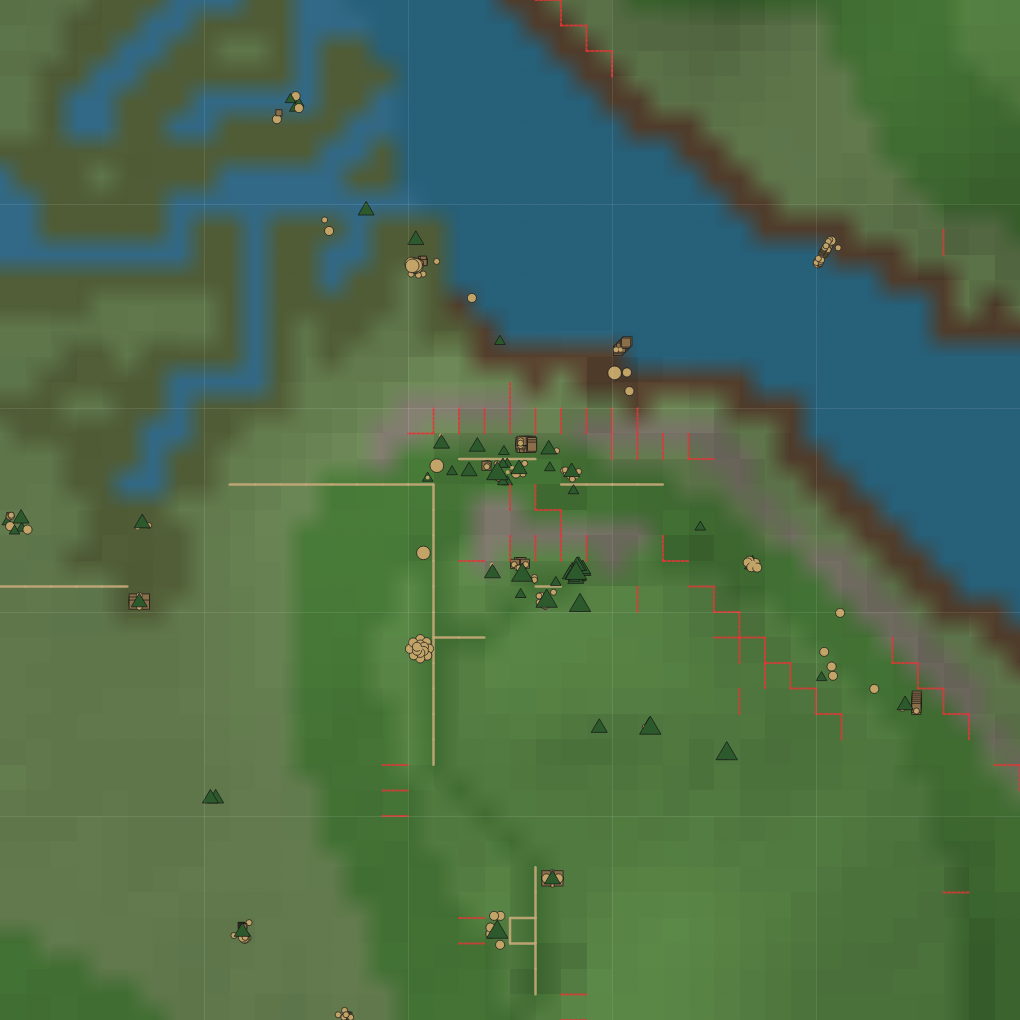
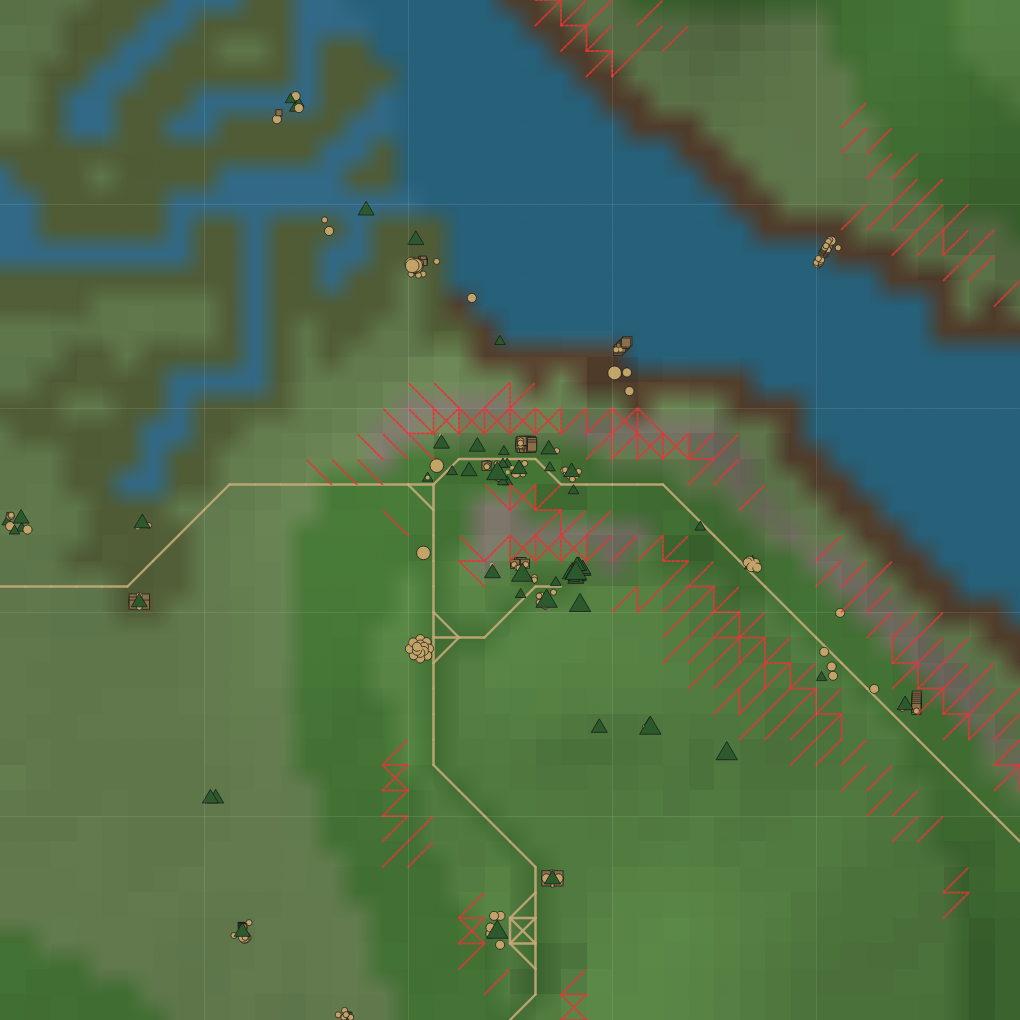
render-preview: walk diagonals for roads and cliffs, harden category dispatch
The road and cliff segment loops only emitted edges to E and N neighbors,
silently dropping any feature whose vertex pattern ran along a diagonal.
A road of road=1 vertices forming a clean (0,0)→(1,1)→(2,2) line had zero
cardinally-adjacent pairs and rendered as nothing — the LLM critic then
saw an empty corridor where retail had a country lane. Same shape for
escarpments and river-cut ridgelines on the cliff overlay.

Both loops now walk four directions (E, N, NE, NW) so every undirected
edge between adjacent vertices is emitted exactly once. Tradeoff: at
L-corners where three road=1 vertices form a triangle, the hypotenuse
also renders, slightly thickening the bend. Strictly better than dropping
diagonals; precise rendering would need triangle-fill where all three
corners are flagged, which is a bigger change.

DrawGlyph dispatch is now case-insensitive via string.Equals(...,
OrdinalIgnoreCase), mirroring the comparer CategoryFill already uses. A
non-canonical-cased category from the ontology was the silent dropout
that masked past building misclassifications: the fill picked up the
right color but the glyph fell through to the unknown-X.

Refreshed docs/images/render_preview/holtburg_r2.png with the new
renderer (1020×1020, 25 LBs, 390 objects, 238 cliffs vs. the prior
build's lower count).

diff --git a/WorldBuilder.Terminal/RenderPreviewRenderer.cs b/WorldBuilder.Terminal/RenderPreviewRenderer.cs
@@ -238,30 +238,31 @@ internal static class RenderPreviewRenderer {
             StrokeCap = SKStrokeCap.Round,
         };
 
+        // Emit each undirected edge exactly once by walking from every vertex
+        // to its E, N, NE, and NW neighbors only. Cardinal-only emission (the
+        // prior version) silently dropped any road whose road=1 vertices ran
+        // along a diagonal — the LLM critic then saw an empty corridor where a
+        // road should have been. Slight cost: at L-corners with three road=1
+        // vertices the hypotenuse also renders, thickening the bend; this is
+        // acceptable schematic noise in exchange for not dropping signal.
+        // Direction offsets: (du, dv).
+        ReadOnlySpan<(int du, int dv)> roadDirs =
+            stackalloc (int, int)[] { (1, 0), (0, 1), (1, 1), (-1, 1) };
+
         for (int vv = 0; vv < VH; vv++) {
             for (int vu = 0; vu < VW; vu++) {
                 int idx = vu + vv * VW;
                 if (!hasData[idx] || roads[idx] == 0) continue;
 
-                // Right neighbor.
-                if (vu + 1 < VW) {
-                    int rIdx = idx + 1;
-                    if (hasData[rIdx] && roads[rIdx] != 0) {
-                        canvas.DrawLine(
-                            VertexToPixel(vu,     vv,     VW, VH, W, H),
-                            VertexToPixel(vu + 1, vv,     VW, VH, W, H),
-                            roadPaint);
-                    }
-                }
-                // Up neighbor (in world; this is screen-down due to Y-flip).
-                if (vv + 1 < VH) {
-                    int uIdx = idx + VW;
-                    if (hasData[uIdx] && roads[uIdx] != 0) {
-                        canvas.DrawLine(
-                            VertexToPixel(vu,     vv,     VW, VH, W, H),
-                            VertexToPixel(vu,     vv + 1, VW, VH, W, H),
-                            roadPaint);
-                    }
+                foreach (var (du, dv) in roadDirs) {
+                    int nu = vu + du, nv = vv + dv;
+                    if (nu < 0 || nu >= VW || nv < 0 || nv >= VH) continue;
+                    int nIdx = nu + nv * VW;
+                    if (!hasData[nIdx] || roads[nIdx] == 0) continue;
+                    canvas.DrawLine(
+                        VertexToPixel(vu, vv, VW, VH, W, H),
+                        VertexToPixel(nu, nv, VW, VH, W, H),
+                        roadPaint);
                 }
             }
         }
@@ -343,25 +344,28 @@ internal static class RenderPreviewRenderer {
                     Math.Max(2f, input.LbPx / 120f) }, 0f),
             };
 
+            // Same 4-direction emission as roads (E, N, NE, NW) so cliff
+            // edges that run diagonally — escarpments, river-cut ridgelines,
+            // tower-building footprints — aren't dropped. The L-corner
+            // hypotenuse artifact applies here too but matters less for
+            // cliffs since the dashed style already reads as schematic.
+            ReadOnlySpan<(int du, int dv)> cliffDirs =
+                stackalloc (int, int)[] { (1, 0), (0, 1), (1, 1), (-1, 1) };
+
             int cliffCount = 0;
             for (int vv = 0; vv < VH; vv++) {
                 for (int vu = 0; vu < VW; vu++) {
                     int idx = vu + vv * VW;
                     if (!hasData[idx]) continue;
-                    if (vu + 1 < VW && hasData[idx + 1]) {
-                        if (Math.Abs(heights[idx + 1] - heights[idx]) > input.CliffThreshold) {
+                    foreach (var (du, dv) in cliffDirs) {
+                        int nu = vu + du, nv = vv + dv;
+                        if (nu < 0 || nu >= VW || nv < 0 || nv >= VH) continue;
+                        int nIdx = nu + nv * VW;
+                        if (!hasData[nIdx]) continue;
+                        if (Math.Abs(heights[nIdx] - heights[idx]) > input.CliffThreshold) {
                             canvas.DrawLine(
-                                VertexToPixel(vu,     vv, VW, VH, W, H),
-                                VertexToPixel(vu + 1, vv, VW, VH, W, H),
-                                cliffPaint);
-                            cliffCount++;
-                        }
-                    }
-                    if (vv + 1 < VH && hasData[idx + VW]) {
-                        if (Math.Abs(heights[idx + VW] - heights[idx]) > input.CliffThreshold) {
-                            canvas.DrawLine(
-                                VertexToPixel(vu, vv,     VW, VH, W, H),
-                                VertexToPixel(vu, vv + 1, VW, VH, W, H),
+                                VertexToPixel(vu, vv, VW, VH, W, H),
+                                VertexToPixel(nu, nv, VW, VH, W, H),
                                 cliffPaint);
                             cliffCount++;
                         }
@@ -403,55 +407,59 @@ internal static class RenderPreviewRenderer {
 
     private static void DrawGlyph(SKCanvas canvas, float cx, float cy, float size,
                                   string category, SKPaint fill, SKPaint outline) {
-        switch (category) {
-            case "Structure":
-                canvas.DrawRect(cx - size, cy - size, size * 2, size * 2, fill);
-                canvas.DrawRect(cx - size, cy - size, size * 2, size * 2, outline);
-                break;
-            case "Furniture":
-            case "Furniture_Storage":
-            case "Furniture_Light": {
-                float s = size * 0.85f;
-                canvas.DrawRect(cx - s, cy - s, s * 2, s * 2, fill);
-                if (s >= 3f) canvas.DrawRect(cx - s, cy - s, s * 2, s * 2, outline);
-                break;
-            }
-            case "Scenery": {
-                using var path = new SKPath();
-                path.MoveTo(cx, cy - size);
-                path.LineTo(cx - size, cy + size * 0.7f);
-                path.LineTo(cx + size, cy + size * 0.7f);
-                path.Close();
-                canvas.DrawPath(path, fill);
-                if (size >= 3f) canvas.DrawPath(path, outline);
-                break;
-            }
-            case "Creature": {
-                using var path = new SKPath();
-                path.MoveTo(cx,        cy - size);
-                path.LineTo(cx + size, cy);
-                path.LineTo(cx,        cy + size);
-                path.LineTo(cx - size, cy);
-                path.Close();
-                canvas.DrawPath(path, fill);
-                if (size >= 3f) canvas.DrawPath(path, outline);
-                break;
-            }
-            case "Prop":
-                canvas.DrawCircle(cx, cy, size * 0.85f, fill);
-                if (size >= 3f) canvas.DrawCircle(cx, cy, size * 0.85f, outline);
-                break;
-            default:
-                using (var paint = new SKPaint {
-                    IsAntialias = true,
-                    Style = SKPaintStyle.Stroke,
-                    StrokeWidth = Math.Max(1f, size * 0.4f),
-                    Color = UnknownFill,
-                }) {
-                    canvas.DrawLine(cx - size, cy - size, cx + size, cy + size, paint);
-                    canvas.DrawLine(cx - size, cy + size, cx + size, cy - size, paint);
-                }
-                break;
+        // Case-insensitive dispatch: the CategoryFill table uses
+        // OrdinalIgnoreCase, so a non-canonical-cased category from the
+        // ontology would pick up the right *color* and then fall through to
+        // the unknown-X glyph here, silently dropping signal — the same
+        // failure mode that masked misclassified buildings before the
+        // ontology was unified. Mirror the comparer used for the fill.
+        if (string.Equals(category, "Structure", StringComparison.OrdinalIgnoreCase)) {
+            canvas.DrawRect(cx - size, cy - size, size * 2, size * 2, fill);
+            canvas.DrawRect(cx - size, cy - size, size * 2, size * 2, outline);
+            return;
+        }
+        if (string.Equals(category, "Furniture", StringComparison.OrdinalIgnoreCase)
+            || string.Equals(category, "Furniture_Storage", StringComparison.OrdinalIgnoreCase)
+            || string.Equals(category, "Furniture_Light", StringComparison.OrdinalIgnoreCase)) {
+            float s = size * 0.85f;
+            canvas.DrawRect(cx - s, cy - s, s * 2, s * 2, fill);
+            if (s >= 3f) canvas.DrawRect(cx - s, cy - s, s * 2, s * 2, outline);
+            return;
+        }
+        if (string.Equals(category, "Scenery", StringComparison.OrdinalIgnoreCase)) {
+            using var path = new SKPath();
+            path.MoveTo(cx, cy - size);
+            path.LineTo(cx - size, cy + size * 0.7f);
+            path.LineTo(cx + size, cy + size * 0.7f);
+            path.Close();
+            canvas.DrawPath(path, fill);
+            if (size >= 3f) canvas.DrawPath(path, outline);
+            return;
+        }
+        if (string.Equals(category, "Creature", StringComparison.OrdinalIgnoreCase)) {
+            using var path = new SKPath();
+            path.MoveTo(cx,        cy - size);
+            path.LineTo(cx + size, cy);
+            path.LineTo(cx,        cy + size);
+            path.LineTo(cx - size, cy);
+            path.Close();
+            canvas.DrawPath(path, fill);
+            if (size >= 3f) canvas.DrawPath(path, outline);
+            return;
+        }
+        if (string.Equals(category, "Prop", StringComparison.OrdinalIgnoreCase)) {
+            canvas.DrawCircle(cx, cy, size * 0.85f, fill);
+            if (size >= 3f) canvas.DrawCircle(cx, cy, size * 0.85f, outline);
+            return;
+        }
+        using (var paint = new SKPaint {
+            IsAntialias = true,
+            Style = SKPaintStyle.Stroke,
+            StrokeWidth = Math.Max(1f, size * 0.4f),
+            Color = UnknownFill,
+        }) {
+            canvas.DrawLine(cx - size, cy - size, cx + size, cy + size, paint);
+            canvas.DrawLine(cx - size, cy + size, cx + size, cy - size, paint);
         }
     }
 
